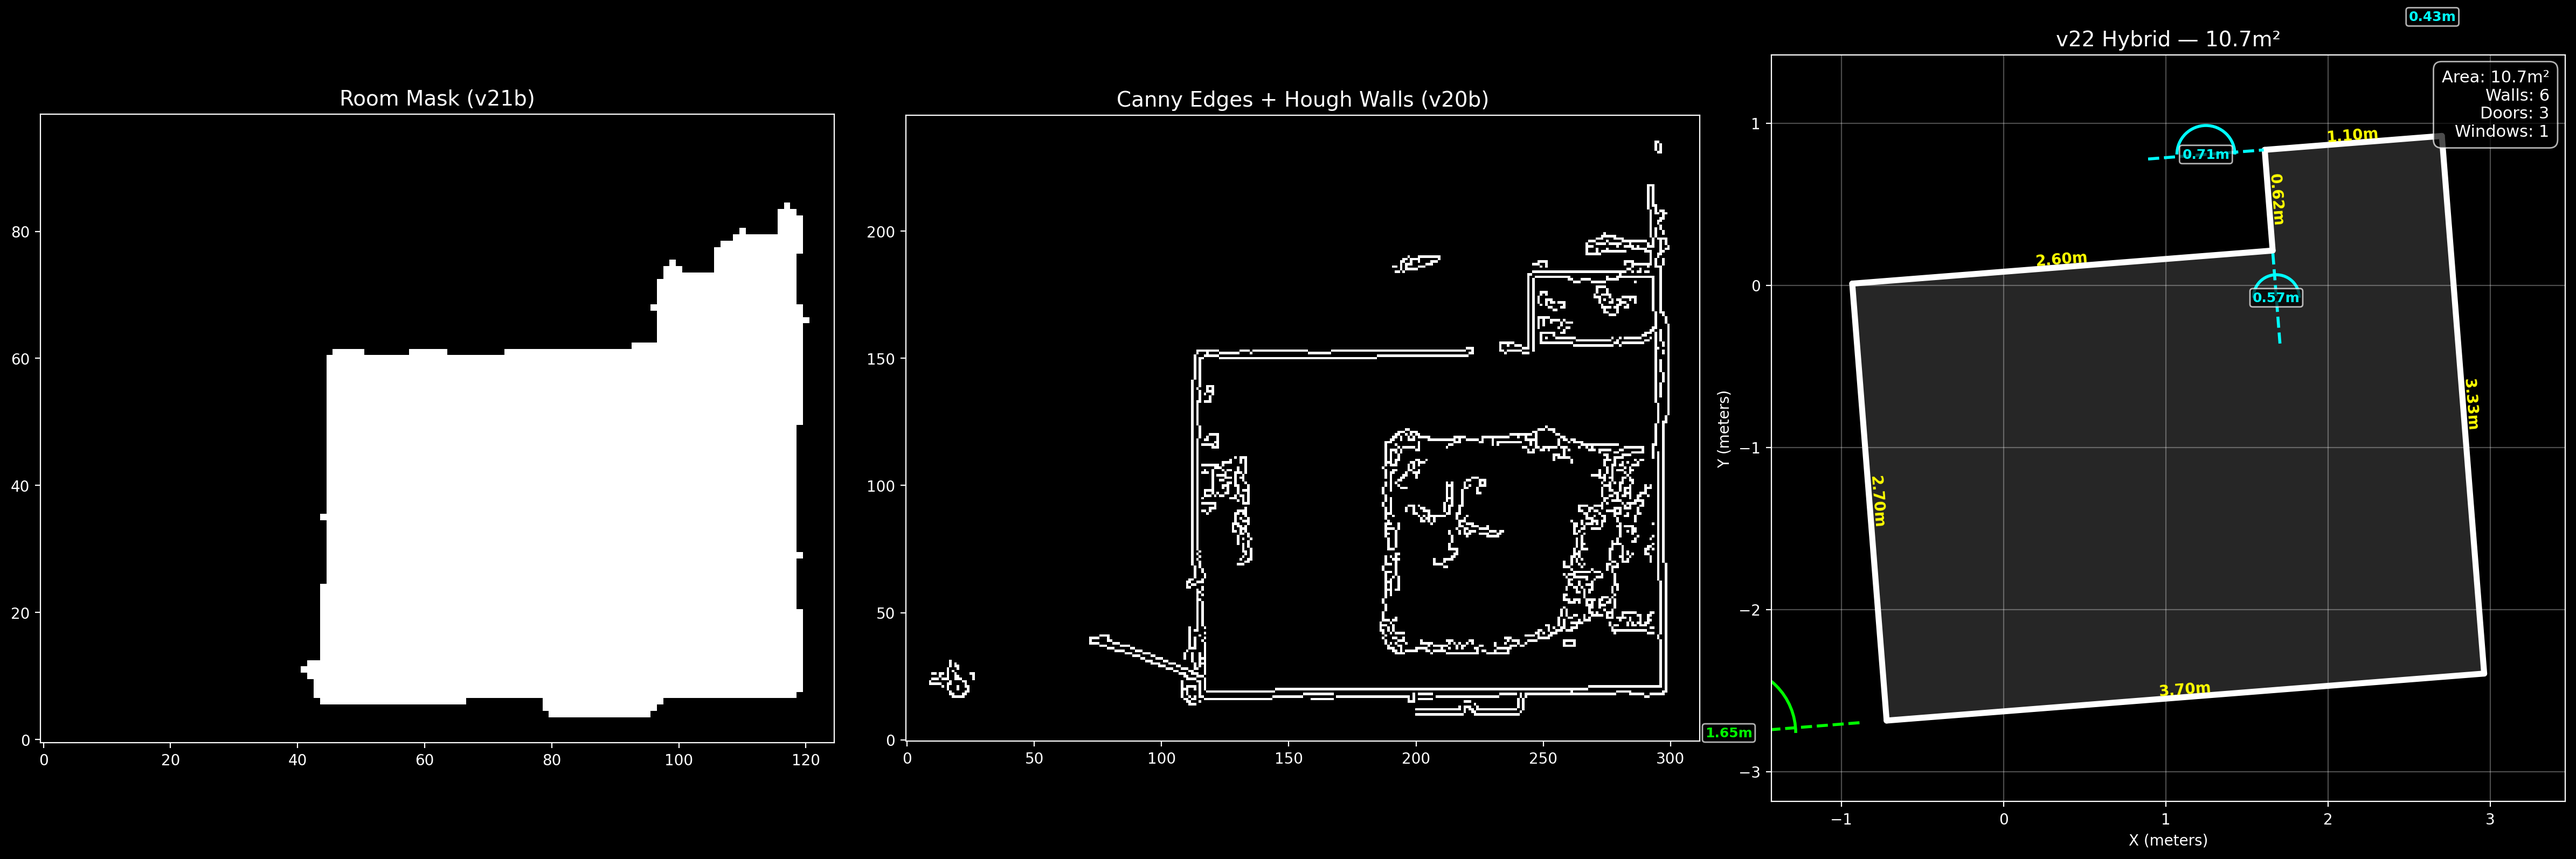
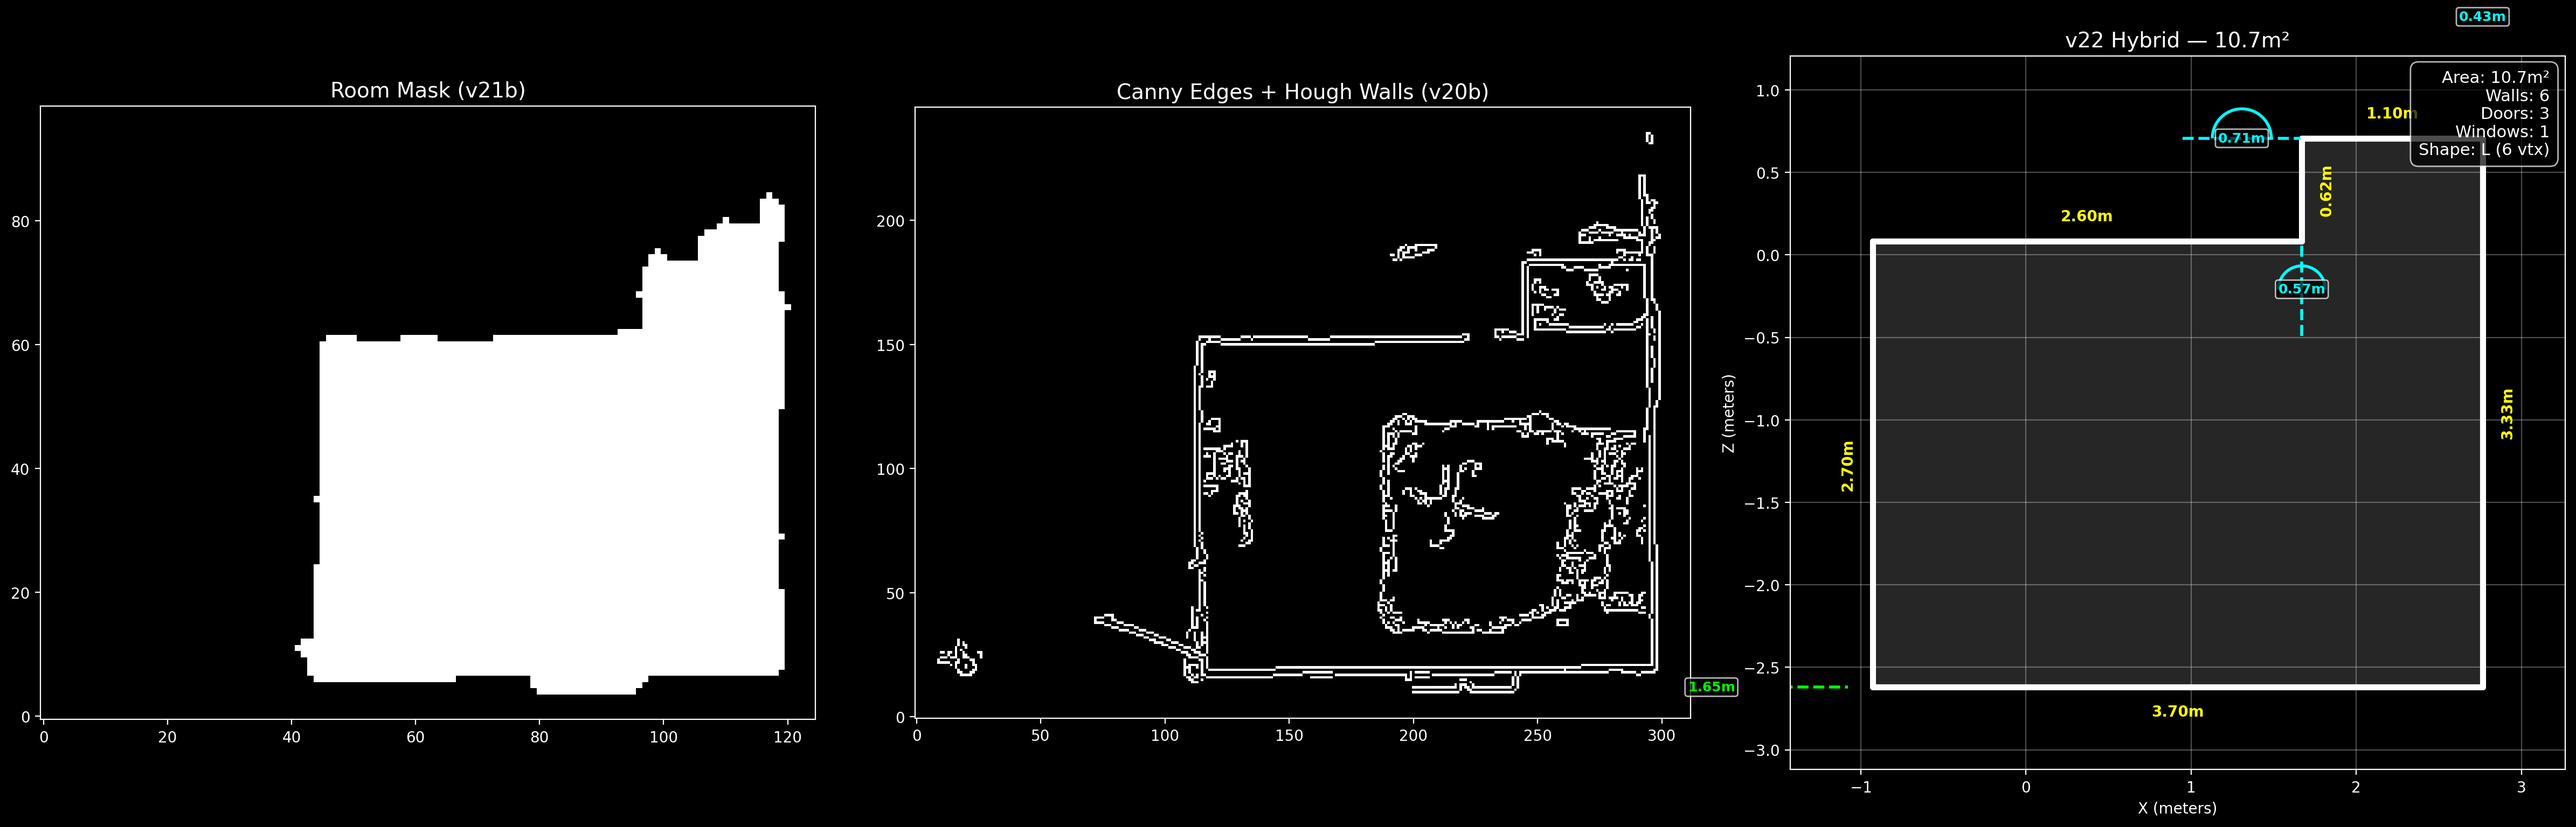
v22: plot walls in axis-aligned space (grid-aligned)

diff --git a/research/v22_hybrid.py b/research/v22_hybrid.py
@@ -598,42 +598,63 @@ def visualize_results(results, output_path):
         ax1.imshow(results['edges'], cmap='gray', origin='lower')
     ax1.set_title('Canny Edges + Hough Walls (v20b)', color='white', fontsize=14)
     
-    # Right: Final floor plan
+    # Right: Final floor plan (plotted in rotated/axis-aligned space)
     ax = axes[2]
     ax.set_aspect('equal')
     ax.set_facecolor('black')
     
-    if results['room']:
-        poly = results['room']['exterior']
-        ax.fill([p[0] for p in poly], [p[1] for p in poly], color='gray', alpha=0.3)
-        ax.plot([p[0] for p in poly], [p[1] for p in poly], color='gray', linewidth=1, alpha=0.7)
+    polygon_rot = results.get('polygon_rot', [])
+    angle_rad = results.get('angle', 0) * math.pi / 180
     
-    for w in results['walls']:
-        s, e = w['startPt'], w['endPt']
-        ax.plot([s[0], e[0]], [s[1], e[1]], color='white', linewidth=4, solid_capstyle='round')
-        mx, my = (s[0]+e[0])/2, (s[1]+e[1])/2
-        
-        dx = e[0] - s[0]
-        dy = e[1] - s[1]
-        ang = math.degrees(math.atan2(dy, dx))
-        if ang > 90 or ang < -90:
-            ang += 180
-        
-        ax.text(mx, my, f"{w['length']:.2f}m", ha='center', va='bottom',
-                color='yellow', fontsize=10, fontweight='bold',
-                rotation=ang, rotation_mode='anchor')
+    if polygon_rot:
+        poly_closed = polygon_rot + [polygon_rot[0]]
+        ax.fill([p[0] for p in poly_closed], [p[1] for p in poly_closed], color='gray', alpha=0.3)
+        ax.plot([p[0] for p in poly_closed], [p[1] for p in poly_closed], color='gray', linewidth=1, alpha=0.7)
     
+    # Draw walls in rotated space (axis-aligned)
+    for i in range(len(polygon_rot)):
+        j = (i + 1) % len(polygon_rot)
+        p1, p2 = polygon_rot[i], polygon_rot[j]
+        length = math.sqrt((p2[0]-p1[0])**2 + (p2[1]-p1[1])**2)
+        if length < 0.15:
+            continue
+        
+        ax.plot([p1[0], p2[0]], [p1[1], p2[1]], color='white', linewidth=4, solid_capstyle='round')
+        mx, my = (p1[0]+p2[0])/2, (p1[1]+p2[1])/2
+        
+        # Label offset: push label outward from polygon center
+        cx = sum(p[0] for p in polygon_rot) / len(polygon_rot)
+        cy = sum(p[1] for p in polygon_rot) / len(polygon_rot)
+        dx, dy = abs(p2[0]-p1[0]), abs(p2[1]-p1[1])
+        
+        if dx > dy:  # horizontal wall
+            offset_y = -0.15 if my < cy else 0.15
+            ax.text(mx, my + offset_y, f"{length:.2f}m", ha='center', va='center',
+                    color='yellow', fontsize=10, fontweight='bold')
+        else:  # vertical wall
+            offset_x = -0.15 if mx < cx else 0.15
+            ax.text(mx + offset_x, my, f"{length:.2f}m", ha='center', va='center',
+                    color='yellow', fontsize=10, fontweight='bold', rotation=90)
+    
+    # Draw openings in rotated space
     for g in results['gaps']:
         c = 'cyan' if g['type'] == 'door' else 'lime'
-        ax.plot([g['start'][0], g['end'][0]], [g['start'][1], g['end'][1]],
-                color=c, linewidth=2, linestyle='--')
+        # Rotate opening points back to rotated space
+        def unrot(p):
+            return [p[0]*math.cos(-angle_rad) - p[1]*math.sin(-angle_rad),
+                    p[0]*math.sin(-angle_rad) + p[1]*math.cos(-angle_rad)]
+        s_r = unrot(g['start'])
+        e_r = unrot(g['end'])
+        m_r = unrot(g['mid'])
+        
+        ax.plot([s_r[0], e_r[0]], [s_r[1], e_r[1]], color=c, linewidth=2, linestyle='--')
         
         radius = g['width'] / 4
-        arc = patches.Arc((g['mid'][0], g['mid'][1]), radius*2, radius*2,
+        arc = patches.Arc((m_r[0], m_r[1]), radius*2, radius*2,
                           theta1=0, theta2=180, color=c, linewidth=2)
         ax.add_patch(arc)
         
-        ax.text(g['mid'][0], g['mid'][1], f"{g['width']:.2f}m", ha='center', va='center',
+        ax.text(m_r[0], m_r[1], f"{g['width']:.2f}m", ha='center', va='center',
                 color=c, fontsize=9, fontweight='bold',
                 bbox=dict(boxstyle='round,pad=0.2', facecolor='black', alpha=0.7))
     
@@ -643,17 +664,19 @@ def visualize_results(results, output_path):
         
         doors = len([g for g in results['gaps'] if g['type'] == 'door'])
         windows = len([g for g in results['gaps'] if g['type'] == 'window'])
-        stats = f"Area: {area:.1f}m²\nWalls: {len(results['walls'])}\nDoors: {doors}\nWindows: {windows}"
+        n_walls = len(results['walls'])
+        shape = f"L ({len(polygon_rot)} vtx)" if len(polygon_rot) == 6 else f"Rect ({len(polygon_rot)} vtx)"
+        stats = f"Area: {area:.1f}m²\nWalls: {n_walls}\nDoors: {doors}\nWindows: {windows}\nShape: {shape}"
         ax.text(0.98, 0.98, stats, transform=ax.transAxes, fontsize=11, color='white',
                 va='top', ha='right', bbox=dict(boxstyle='round,pad=0.5', facecolor='black', alpha=0.7))
     
     ax.grid(True, alpha=0.3)
     ax.set_xlabel('X (meters)')
-    ax.set_ylabel('Y (meters)')
+    ax.set_ylabel('Z (meters)')
     
-    all_x = [w['startPt'][0] for w in results['walls']] + [w['endPt'][0] for w in results['walls']]
-    all_y = [w['startPt'][1] for w in results['walls']] + [w['endPt'][1] for w in results['walls']]
-    if all_x:
+    if polygon_rot:
+        all_x = [p[0] for p in polygon_rot]
+        all_y = [p[1] for p in polygon_rot]
         m = 0.5
         ax.set_xlim(min(all_x)-m, max(all_x)+m)
         ax.set_ylim(min(all_y)-m, max(all_y)+m)
